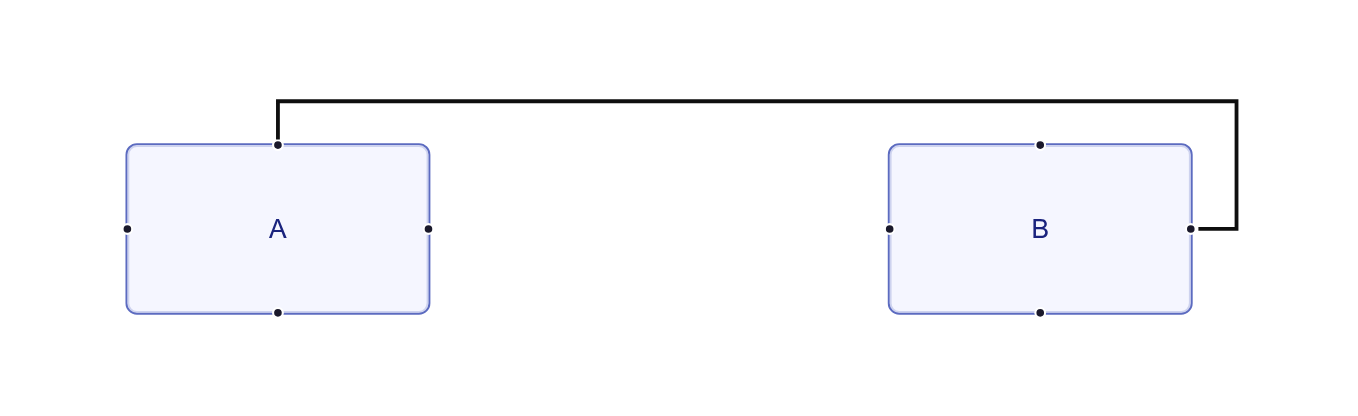
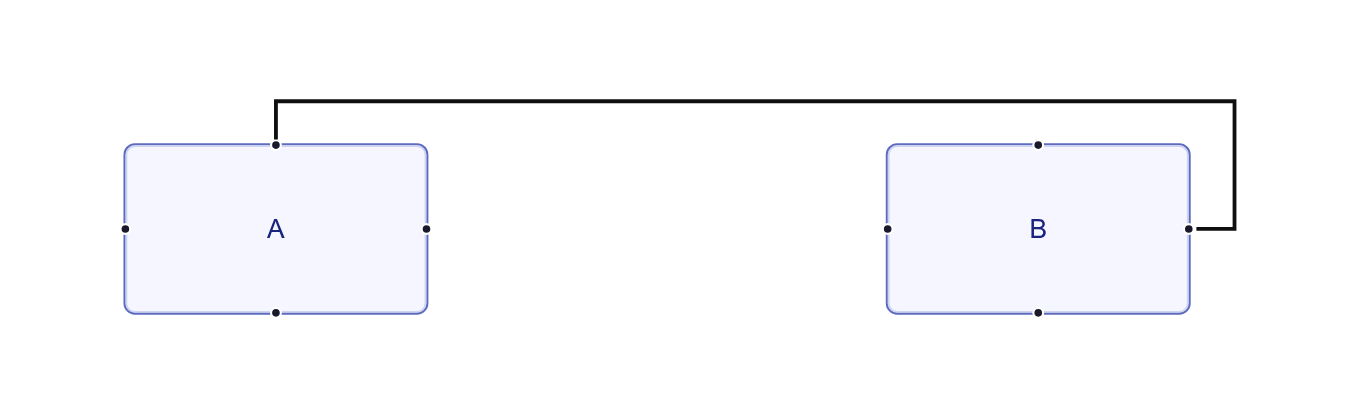
harness cmd line export

diff --git a/packages/dev/frontend/routing-harness/src/App.tsx b/packages/dev/frontend/routing-harness/src/App.tsx
@@ -1,4 +1,4 @@
-import { useCallback, useEffect, useRef, useState } from 'react';
+import { useCallback, useEffect, useMemo, useRef, useState } from 'react';
 import { DiagramViewer, type DiagramViewerHandle } from './components/DiagramViewer';
 import { loadFixture, loadManifest } from './lib/fixtureLoader';
 import type { DiagramFixture, FixtureManifestEntry } from './types';
@@ -24,6 +24,19 @@ export default function App() {
     const param = new URL(window.location.href).searchParams.get('debug');
     return param === 'spacing' || param === 'routing';
   });
+  const exportRange = useMemo<{ start: number; count: number | null }>(() => {
+    if (typeof window === 'undefined') {
+      return { start: 0, count: null };
+    }
+    const url = new URL(window.location.href);
+    const startParam = Number.parseInt(url.searchParams.get('batchStart') ?? url.searchParams.get('exportStart') ?? '', 10);
+    const countParam = Number.parseInt(url.searchParams.get('batchCount') ?? url.searchParams.get('exportCount') ?? '', 10);
+
+    const start = Number.isFinite(startParam) && startParam > 0 ? Math.max(0, startParam) : 0;
+    const count = Number.isFinite(countParam) && countParam > 0 ? Math.max(1, countParam) : null;
+
+    return { start, count };
+  }, []);
 
   useEffect(() => {
     let mounted = true;
@@ -82,6 +95,40 @@ export default function App() {
     }
   }, []);
 
+  const fixturesToDisplay = useMemo<LoadedFixture[]>(() => {
+    if (fixtures.length === 0) {
+      return [];
+    }
+    const startIndex = Math.min(exportRange.start, fixtures.length);
+    if (startIndex >= fixtures.length) {
+      return [];
+    }
+    const endIndex =
+      exportRange.count !== null ? Math.min(startIndex + exportRange.count, fixtures.length) : fixtures.length;
+    return fixtures.slice(startIndex, endIndex);
+  }, [fixtures, exportRange]);
+  const totalFixtures = fixtures.length;
+  const hasExportRange = exportRange.start > 0 || exportRange.count !== null;
+  const rangeStartIndex = Math.min(exportRange.start, totalFixtures);
+  const rangeEndIndex =
+    fixturesToDisplay.length > 0 ? rangeStartIndex + fixturesToDisplay.length : rangeStartIndex;
+  const rangeSummary =
+    hasExportRange && totalFixtures > 0
+      ? fixturesToDisplay.length > 0
+        ? `Showing fixtures ${rangeStartIndex + 1}\u2013${rangeEndIndex} of ${totalFixtures}`
+        : `No fixtures in selected range (start ${rangeStartIndex + 1}).`
+      : null;
+
+  useEffect(() => {
+    const handles = viewerHandlesRef.current;
+    const allowed = new Set(fixturesToDisplay.map(({ entry }) => entry.id));
+    for (const key of Array.from(handles.keys())) {
+      if (!allowed.has(key)) {
+        handles.delete(key);
+      }
+    }
+  }, [fixturesToDisplay]);
+
   const registerViewerHandle = useCallback((fixtureId: string, handle: DiagramViewerHandle | null) => {
     const handles = viewerHandlesRef.current;
     if (handle) {
@@ -102,7 +149,7 @@ export default function App() {
   }, []);
 
   const handleExportAll = useCallback(async () => {
-    if (isExporting || fixtures.length === 0 || error) {
+    if (isExporting || fixturesToDisplay.length === 0 || error) {
       return;
     }
 
@@ -112,7 +159,7 @@ export default function App() {
     try {
       let exportedCount = 0;
 
-      for (const { entry } of fixtures) {
+      for (const { entry } of fixturesToDisplay) {
         const handle = viewerHandlesRef.current.get(entry.id);
         if (!handle) {
           throw new Error(`Fixture "${entry.id}" is not ready for export.`);
@@ -136,7 +183,7 @@ export default function App() {
     } finally {
       setIsExporting(false);
     }
-  }, [downloadImage, error, fixtures, isExporting]);
+  }, [downloadImage, error, fixturesToDisplay, isExporting]);
 
   useEffect(() => {
     if (!exportFeedback) {
@@ -156,9 +203,10 @@ export default function App() {
           className="app__export-button"
           onClick={handleExportAll}
           data-testid="export-all-button"
-          disabled={Boolean(error) || isLoading || isExporting || fixtures.length === 0}>
-          {isExporting ? 'Exporting diagrams…' : `Export all diagrams (${fixtures.length})`}
+          disabled={Boolean(error) || isLoading || isExporting || fixturesToDisplay.length === 0}>
+          {isExporting ? 'Exporting diagrams…' : `Export diagrams (${fixturesToDisplay.length})`}
         </button>
+        {rangeSummary ? <span className="app__range-summary">{rangeSummary}</span> : null}
         {exportFeedback ? (
           <span className={`app__export-feedback app__export-feedback--${exportFeedback.type}`}>
             {exportFeedback.message}
@@ -167,10 +215,13 @@ export default function App() {
       </div>
       {error ? <div className="app__status app__status--error">{error}</div> : null}
       {!error && isLoading ? <div className="app__status">Loading fixtures…</div> : null}
-      {!isLoading && !error && fixtures.length === 0 ? (
+      {!isLoading && !error && totalFixtures === 0 ? (
         <div className="app__status">No fixtures available.</div>
       ) : null}
-      {fixtures.map(({ entry, fixture }) => {
+      {!isLoading && !error && totalFixtures > 0 && fixturesToDisplay.length === 0 ? (
+        <div className="app__status">No fixtures in the selected range.</div>
+      ) : null}
+      {fixturesToDisplay.map(({ entry, fixture }) => {
         const title = fixture.name ?? entry.name ?? entry.id;
         const description = fixture.description ?? entry.description;
         const key = fixture.id ?? entry.id;

diff --git a/packages/dev/frontend/routing-harness/scripts/export-routing-diagrams.js b/packages/dev/frontend/routing-harness/scripts/export-routing-diagrams.js
@@ -200,36 +200,13 @@ const waitForDownloads = (page, expectedCount, timeoutMs) =>
     page.on('download', handleDownload);
   });
 
-const computeFixtureSlice = (fixtures, { limit, batchIndex, batchSize }) => {
-  const total = fixtures.length;
-  let end = total;
-  if (limit && limit > 0) {
-    end = Math.min(end, limit);
-  }
-
-  if (batchIndex !== null || batchSize !== null) {
-    if (batchIndex === null || batchSize === null) {
-      throw new Error('Both --batch-index and --batch-size must be provided together.');
-    }
-    const start = batchIndex * batchSize;
-    if (start >= total) {
-      throw new Error(
-        `Batch ${batchIndex} is out of range for ${total} fixtures (batch size ${batchSize}).`
-      );
-    }
-    const batchEnd = Math.min(start + batchSize, end);
-    return fixtures.slice(start, batchEnd);
-  }
-
-  return fixtures.slice(0, end);
-};
-
 const main = async () => {
   const options = parseArgs(process.argv.slice(2));
   const outputDir = resolve(process.cwd(), options.outDir);
   const shouldStartServer = !options.url;
   const baseUrl = options.url ?? `http://127.0.0.1:${options.port}`;
   let previewProcess = null;
+  let browser = null;
 
   try {
     if (shouldStartServer) {
@@ -262,8 +239,12 @@ const main = async () => {
     await mkdir(outputDir, { recursive: true });
 
     console.log('[harness-export] Launching browser…');
-    const browser = await chromium.launch({ headless: true });
-    const context = await browser.newContext({ acceptDownloads: true });
+    browser = await chromium.launch({ headless: true });
+    const context = await browser.newContext({
+      acceptDownloads: true,
+      viewport: { width: 1600, height: 1200 },
+      deviceScaleFactor: 1,
+    });
     const page = await context.newPage();
 
     if (options.verbose) {
@@ -277,22 +258,42 @@ const main = async () => {
       });
     }
 
-    console.log(`[harness-export] Navigating to ${baseUrl}`);
-    await page.goto(baseUrl, { waitUntil: 'networkidle' });
-    await page.waitForSelector('.fixture');
+    const navigationUrl = new URL(baseUrl);
+    if (options.batchIndex !== null && options.batchSize !== null) {
+      const start = options.batchIndex * options.batchSize;
+      const count =
+        options.limit && options.limit > 0 ? Math.min(options.batchSize, options.limit) : options.batchSize;
+      navigationUrl.searchParams.set('batchStart', String(start));
+      navigationUrl.searchParams.set('batchCount', String(count));
+    } else if (options.limit && options.limit > 0) {
+      navigationUrl.searchParams.set('batchCount', String(options.limit));
+    }
 
-    const fixtures = await page.evaluate(() =>
+    const visitUrl = navigationUrl.toString();
+    console.log(`[harness-export] Navigating to ${visitUrl}`);
+    await page.goto(visitUrl, { waitUntil: 'networkidle' });
+    const waitTimeout = Math.min(options.timeoutMs, 30_000);
+    await Promise.race([
+      page.waitForSelector('.fixture', { timeout: waitTimeout }),
+      page.waitForFunction(
+        () => {
+          const status = Array.from(document.querySelectorAll('.app__status')).map((el) => el.textContent ?? '');
+          return status.some((text) => text.includes('No fixtures in the selected range.') || text.includes('No fixtures available.'));
+        },
+        { timeout: waitTimeout }
+      ),
+    ]);
+
+    const fixturesToExport = await page.evaluate(() =>
       Array.from(document.querySelectorAll('[data-fixture-id]')).map((section) => ({
         id: section.getAttribute('data-fixture-id') ?? '',
         fileName: section.getAttribute('data-fixture-file') ?? '',
       }))
     );
 
-    if (!fixtures || fixtures.length === 0) {
-      throw new Error('No fixtures detected on the harness page.');
+    if (!fixturesToExport || fixturesToExport.length === 0) {
+      throw new Error('No fixtures detected on the harness page (check batch parameters).');
     }
-
-    const fixturesToExport = computeFixtureSlice(fixtures, options);
 
     await page.waitForFunction(() => {
       const button = document.querySelector('[data-testid="export-all-button"]');
@@ -300,7 +301,7 @@ const main = async () => {
     });
 
     console.log(
-      `[harness-export] Found ${fixtures.length} fixture(s). Triggering export (${fixturesToExport.length} planned)…`
+      `[harness-export] Found ${fixturesToExport.length} fixture(s) for export…`
     );
     const downloadsPromise = waitForDownloads(page, fixturesToExport.length, options.timeoutMs);
     await page.click('[data-testid="export-all-button"]');
@@ -325,9 +326,13 @@ const main = async () => {
     });
 
     await browser.close();
+    browser = null;
 
     console.log(`[harness-export] Export completed. Files available in ${outputDir}`);
   } finally {
+    if (browser) {
+      await browser.close().catch(() => {});
+    }
     await killProcess(previewProcess);
   }
 };

diff --git a/packages/dev/frontend/routing-harness/src/components/DiagramViewer.tsx b/packages/dev/frontend/routing-harness/src/components/DiagramViewer.tsx
@@ -458,6 +458,20 @@ const DiagramRuntime = forwardRef<DiagramViewerHandle, DiagramViewerProps>(
       onMetricsChange(computeRoutingMetrics(fixture.id, edges));
     }, [edges, fixture.id, onMetricsChange]);
 
+    const waitForEdgePaths = useCallback(async (maxAttempts = 20) => {
+      for (let attempt = 0; attempt < maxAttempts; attempt += 1) {
+        const snapshot = instanceRef.current?.getEdges() ?? [];
+        const allReady = snapshot.every(
+          (edge) => typeof edge.data?.edgePath === 'string' && edge.data.edgePath.length > 0
+        );
+        if (allReady) {
+          return snapshot;
+        }
+        await new Promise<void>((resolve) => window.requestAnimationFrame(() => resolve()));
+      }
+      return instanceRef.current?.getEdges() ?? [];
+    }, []);
+
     const exportDiagramAsPng = useCallback(async (): Promise<string> => {
       const instance = instanceRef.current;
       const wrapper = wrapperRef.current;
@@ -468,12 +482,13 @@ const DiagramRuntime = forwardRef<DiagramViewerHandle, DiagramViewerProps>(
       fitToContent();
       await new Promise<void>((resolve) => window.requestAnimationFrame(() => resolve()));
 
+      await new Promise<void>((resolve) => window.requestAnimationFrame(() => resolve()));
+      const edgesSnapshot = await waitForEdgePaths();
       const nodesSnapshot = instance.getNodes();
-      const edgesSnapshot = instance.getEdges();
       const contentBounds = computeDiagramBounds(nodesSnapshot, edgesSnapshot, CONTENT_MARGIN);
 
-      const exportWidth = Math.max(contentBounds.width, 1);
-      const exportHeight = Math.max(contentBounds.height, 1);
+      const exportWidth = Math.max(Math.round(contentBounds.width), 1);
+      const exportHeight = Math.max(Math.round(contentBounds.height), 1);
 
       const viewport: Viewport = getViewportForBounds(contentBounds, exportWidth, exportHeight, 0.5, 2, 0.05);
 
@@ -511,7 +526,7 @@ const DiagramRuntime = forwardRef<DiagramViewerHandle, DiagramViewerProps>(
           edgesLayer.removeChild(clonedMarkerDefs);
         }
       }
-    }, [fitToContent]);
+    }, [fitToContent, waitForEdgePaths]);
 
     useImperativeHandle(
       ref,

diff --git a/packages/dev/frontend/routing-harness/src/styles/app.css b/packages/dev/frontend/routing-harness/src/styles/app.css
@@ -19,6 +19,11 @@
   gap: 12px;
 }
 
+.app__range-summary {
+  font-size: 13px;
+  color: #3c4a6b;
+}
+
 .app__export-button {
   appearance: none;
   border: none;
